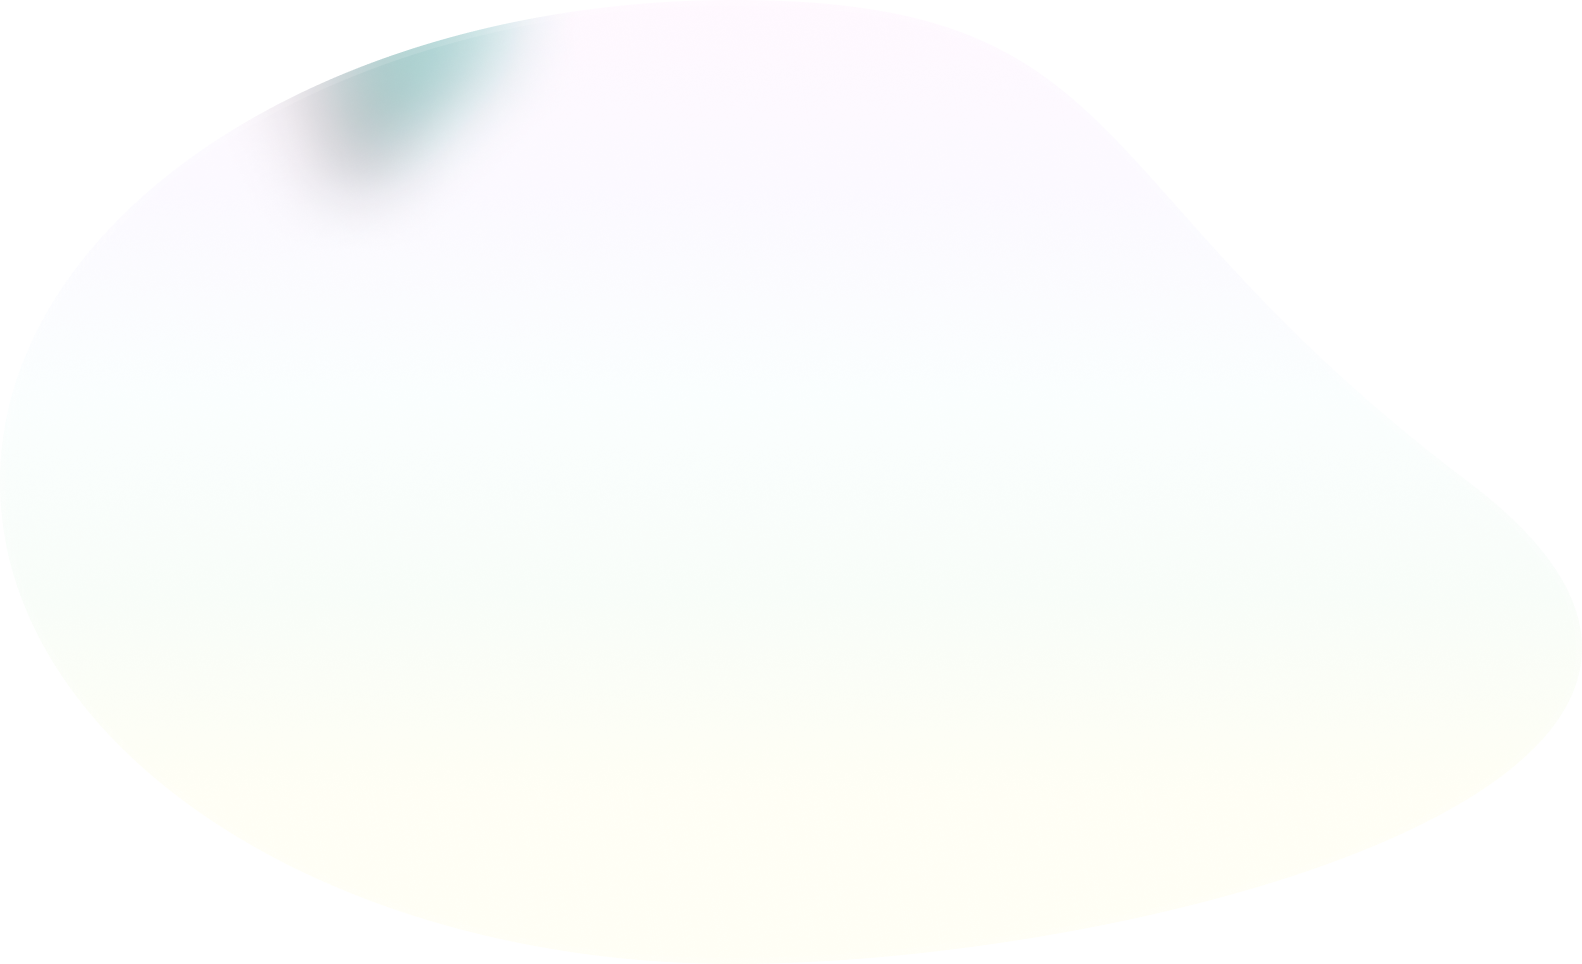
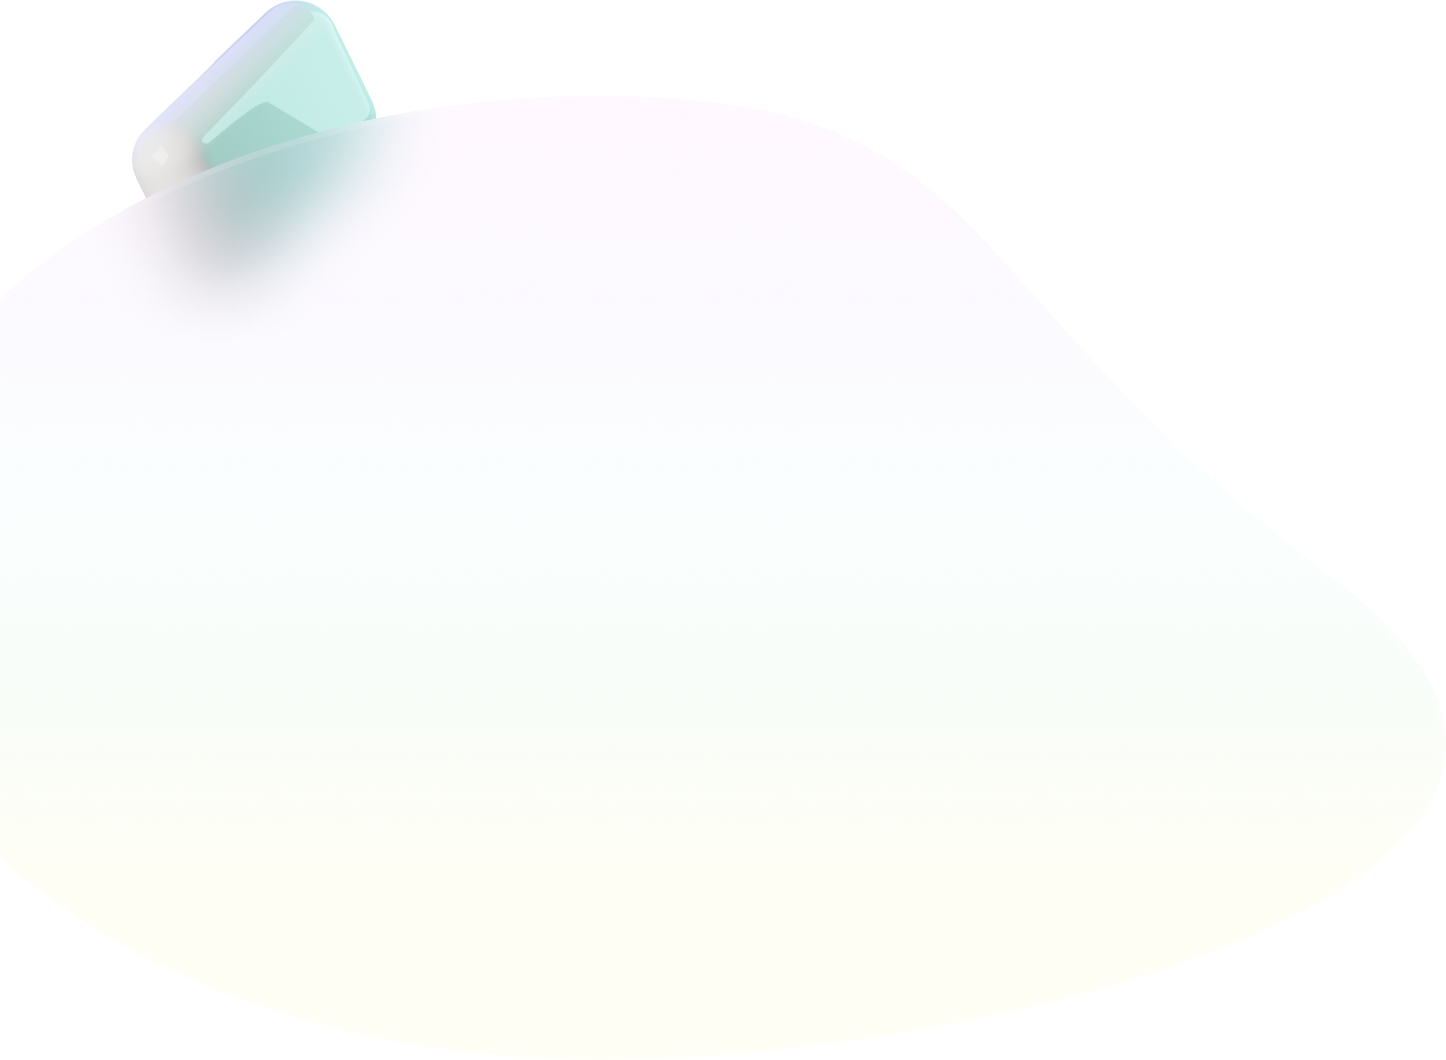
aaa

Changed region(s): [[0.0934, 0.0, 0.3423, 0.2801]]

diff --git a/src/page/App768.css b/src/page/App768.css
@@ -644,20 +644,21 @@
   .ellipse-15 {
     position: absolute;
     width: 791px;
-    height: 482px;
-    top: 550px;
-    left: 0;
+    height: 582px;
+    top: 560px;
+    left: 20px;
     background: url(../assets/images/images_768/4462f27c-a17f-432f-b9f7-b30dd7c09fa2.png)
       no-repeat center;
     background-size: cover;
     z-index: 136;
-    backdrop-filter: blur(20px);
+    backdrop-filter: none ;
   }
   .rectangle-16 {
     position: relative;
     width: 561px;
     height: 315px;
     margin: 108px 0 0 172px;
+    top: 40px;
     background: #ffffff;
     z-index: 138;
     border-radius: 10px;

diff --git a/src/page/768/functions/AppFunctions.jsx b/src/page/768/functions/AppFunctions.jsx
@@ -91,7 +91,7 @@ export default function AppFunctions() {
                 </div>
             </div>            
             <div className='flex-row-eba'>
-                <div className='roundcube-white-glossy' />
+                {/* <div className='roundcube-white-glossy' /> */}
                 <div className='ellipse-15'>
                     <div className='rectangle-16'>
                         <span className='gif-17'>gif.</span>
